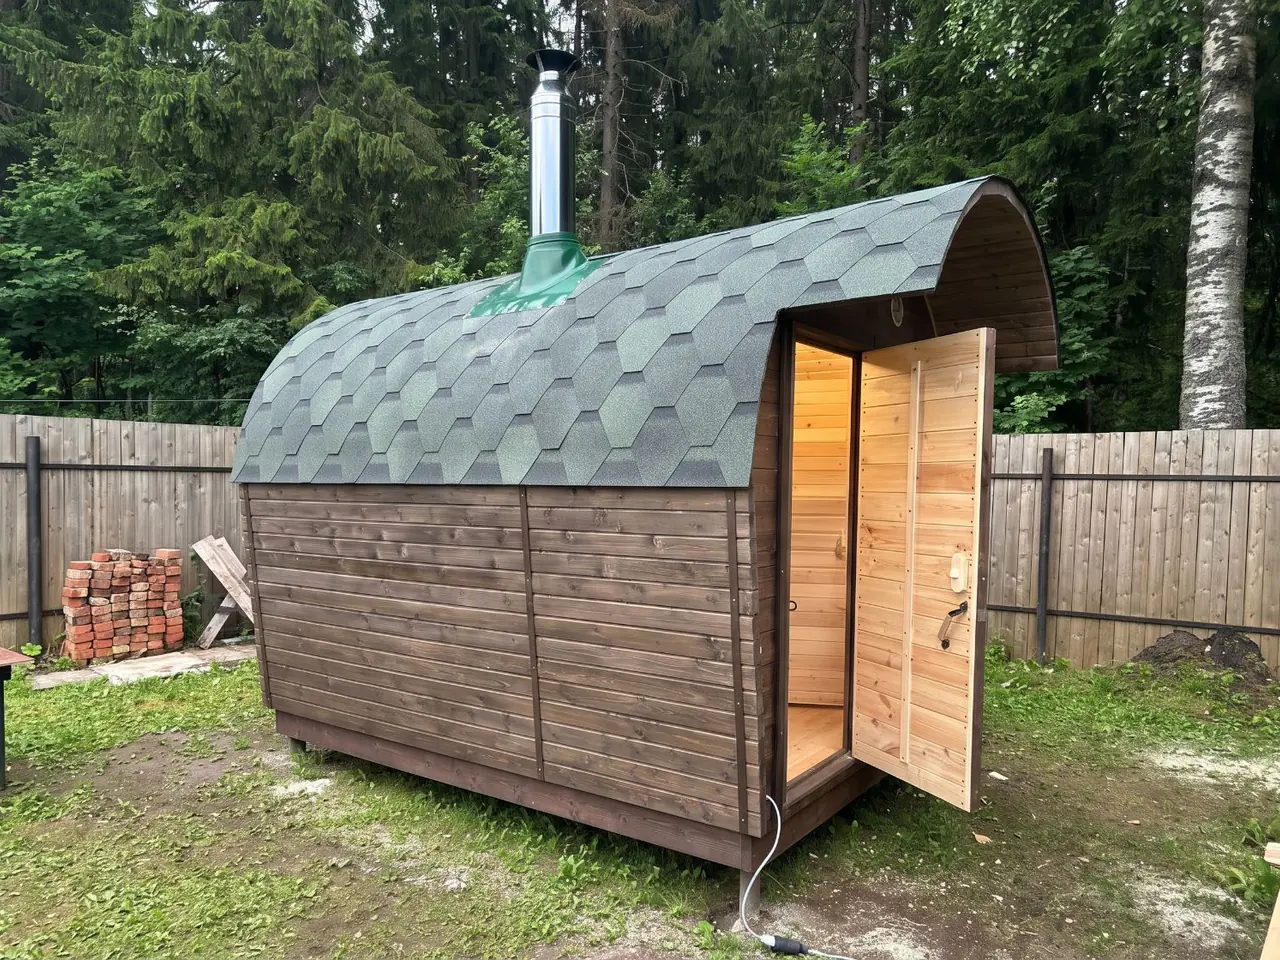
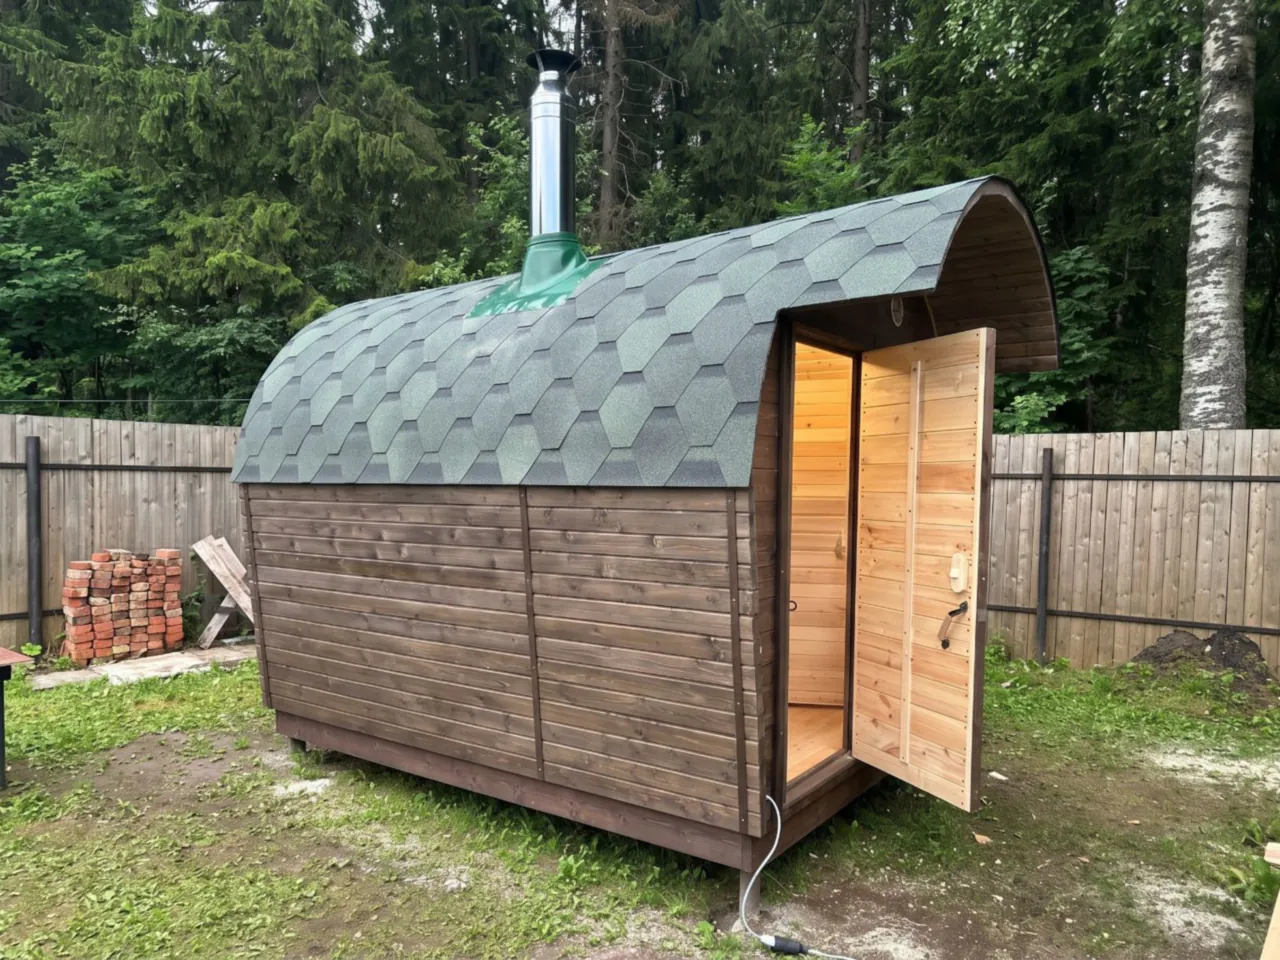
Наши работы: фото объекта 6, пережатие тяжёлых кадров, правки увеличения
Доставка и установка: два кадра в WebP 4:3, 1280 и 640, без метаданных.
Главные фото Зонихи и Дороничей и второй кадр установки не влезали в
200 КБ даже на качестве 75 (трава и листва): лёгкое шумоподавление
blur(0.6) перед сжатием дало 195 / 172 / 170 КБ на качестве 80 / 75 / 80,
на глаз разницы нет.

Увеличение: затемнение фона, кнопки и стрелки через rgba — токены цвета
объявлены без альфа-канала, и модификаторы bg-ink/90 в Tailwind не
применялись. Кнопка «Рассчитать такую» при переносе выравнивается влево.

CLAUDE.md: блок в порядке экранов, раздел «Наши работы», цели, структура,
очередь задач.

Claude-Session: https://claude.ai/code/session_016yEhk2s1iwsNRGU5R1PNhg

diff --git a/src/components/works/Lightbox.jsx b/src/components/works/Lightbox.jsx
@@ -60,7 +60,7 @@ export default function Lightbox({ work, onClose }) {
   }
 
   const photo = photos[index]
-  const arrow = 'absolute top-1/2 flex h-12 w-12 -translate-y-1/2 items-center justify-center rounded-full bg-ink/70 text-surface'
+  const arrow = 'absolute top-1/2 flex h-12 w-12 -translate-y-1/2 items-center justify-center rounded-full bg-[rgba(26,21,18,0.7)] text-surface'
 
   return (
     <div
@@ -68,14 +68,14 @@ export default function Lightbox({ work, onClose }) {
       aria-modal="true"
       aria-label={`Фото: ${work.caption}`}
       onClick={onClose}
-      className="fixed inset-0 z-50 flex items-center justify-center bg-ink/90 p-4 md:p-10"
+      className="fixed inset-0 z-50 flex items-center justify-center bg-[rgba(26,21,18,0.92)] p-4 md:p-10"
     >
       <button
         ref={closeRef}
         type="button"
         onClick={onClose}
         aria-label="Закрыть"
-        className="absolute right-3 top-3 z-10 flex h-12 w-12 items-center justify-center rounded-full bg-ink/70 text-[28px] leading-none text-surface md:right-6 md:top-6"
+        className="absolute right-3 top-3 z-10 flex h-12 w-12 items-center justify-center rounded-full bg-[rgba(26,21,18,0.7)] text-[28px] leading-none text-surface md:right-6 md:top-6"
       >
         ×
       </button>

diff --git a/src/components/works/WorkCard.jsx b/src/components/works/WorkCard.jsx
@@ -22,7 +22,7 @@ export default function WorkCard({ work, onOpen, onCalc }) {
         <button
           type="button"
           onClick={() => onCalc(work)}
-          className="mt-2 inline-block p-0 text-body font-bold text-accent underline-offset-4 hover:underline"
+          className="mt-2 inline-block p-0 text-left text-body font-bold text-accent underline-offset-4 hover:underline"
         >
           Рассчитать такую
         </button>

diff --git a/CLAUDE.md b/CLAUDE.md
@@ -66,12 +66,14 @@ src/
   data/reviews.js             — отзывы: площадки, семь карточек, отзыв для бизнеса
   data/faq.js                 — частые вопросы: 18 вопросов, plainAnswer() для JSON-LD
   data/objects.js             — где стоят бани: только названия мест и координаты
+  data/works.js               — «Наши работы»: шесть объектов, подписи, фото, сезон и карточка для калькулятора
   data/visit.js               — «Посмотрите баню до покупки»: тексты карточек, ленты, типы записи
   lib/
     submitLead.js             — единственная точка отправки заявок
     track.js                  — цели Яндекс.Метрики, клики по телефону
     utm.js                    — UTM в sessionStorage
     visit.js                  — событие «записаться на показ» (ссылка из FAQ → форма блока показа)
+    calc.js                   — событие «рассчитать такую» («Наши работы» → калькулятор)
     callback.js               — обещание ответить/перезвонить по московскому времени
     phone.js                  — маска и нормализация телефона
     ymaps.js                  — загрузка JavaScript API Яндекс Карт v3 по требованию
@@ -84,14 +86,16 @@ src/
     SectionCalculator.jsx     — калькулятор
     calculator/               — Segmented, FloorPlan, CalculatorCard, LeadForm
     SectionInside.jsx         — «Что внутри»
-    SectionMap.jsx            — «Где стоят наши бани»: карта Яндекса, список мест
+    ResponsivePhoto.jsx       — фото в двух ширинах (srcset 1280/640), photoSrc()
+    SectionWorks.jsx          — «Наши работы» (#works): карточки объектов + карта
+    works/                    — WorkCard (карточка), Lightbox (увеличение), MapBlock (карта Яндекса, список мест)
     SectionProcess.jsx        — «Как проходит заказ»: пять шагов, «Делаем мы / Делаете вы»
     SectionReviews.jsx        — «Отзывы»: каскад в две колонки, «Показать ещё» на телефоне
     ReviewCard.jsx            — карточка отзыва (блок «Отзывы» и вкладка «Для бизнеса»)
     SourceIcon.jsx            — иконка площадки: круглая для карточек, квадратная для плашек
     RatingStars.jsx           — звёзды рейтинга инлайн-SVG, заполнение из числа
     SectionShowroom.jsx       — «Посмотрите баню до покупки» (#showroom): три карточки и форма записи
-    showroom/                 — VisitPhoto (srcset 1280/640), VisitCard (карточка с лентой), VisitForm
+    showroom/                 — VisitCard (карточка с лентой), VisitForm (форма записи)
     SectionFaq.jsx            — «Частые вопросы»: аккордеон на <details>, JSON-LD FAQPage
     FaqQuestionForm.jsx       — карточка «Не нашли ответ?» с формой вопроса на фоне forest
     Footer.jsx                — подвал: оператор, контакты, политика (минимальный)
@@ -100,7 +104,8 @@ src/
   pages/PrivacyPage.jsx       — политика конфиденциальности
 public/photos/                — WebP-фото, логотип, чертежи diagram-*.webp,
                                 иконки площадок review-*.webp, rating-*.webp,
-                                фото блока показа shourum-*, proizvodstvo-*, video-zvonok (1280 и 640)
+                                фото блока показа shourum-*, proizvodstvo-*, video-zvonok (1280 и 640),
+                                фото объектов obekt-* (1280 и 640)
 public/favicon-32.png, apple-touch-icon.png
 ```
 
@@ -217,13 +222,23 @@ public/favicon-32.png, apple-touch-icon.png
 5. `SectionInside` — **готов**. Светлый экран: пять блоков (вентиляция,
    утепление, печь, дерево, кровля), приглашение в шоурум с кнопкой на
    `#showroom`.
-6. `SectionMap` (`#map`) — **в работе**. Светлый экран «Где стоят наши бани»:
-   заголовок и подзаголовок по центру, карта Яндекса (JavaScript API v3)
-   480/360 px со скруглением 6 px, строка «А ещё: …» с переездами к другим
-   регионам и кнопка «Вся Кировская область», ниже все места текстом в 3/2
-   колонки. Код готов, но: ключ не добавлен, координаты предварительные
-   (скрипт геокодера не запускался), живой вид карты не проверялся. Над картой
-   слот `WORKS_SLOT` под карточки «Наши работы» — **заглушка**.
+6. `SectionWorks` (`#works`) — **готов** (карта внутри — **в работе**, см.
+   ниже). Светлый экран «Наши работы», подзаголовок «Подковы, которые уже
+   стоят у наших клиентов», по центру. Шесть карточек объектов
+   (`works/WorkCard`, данные `data/works.js`): фото 4:3 со скруглением,
+   подпись буквально из задания (`text-body`, `ink`), текстовая кнопка
+   «Рассчитать такую» `accent` (у «Доставки и установки» нет). От 1024 px три
+   в ряд, ниже две. Клик по фото — увеличение `works/Lightbox`: два кадра,
+   стрелки и клавиши, закрытие по Esc / кнопке / клику вне, свайп на телефоне,
+   без таймеров. Кнопка — `requestCalc(season, cardId)` из `lib/calc.js`:
+   калькулятор переключается на «Себе», ставит сезон и карточку теми же
+   обработчиками, что при ручном выборе, дальше стандартная прокрутка к форме.
+   Под карточками `works/MapBlock` (бывший `SectionMap`, `#map`): маленький
+   заголовок «Где стоят наши бани», прежний подзаголовок, карта Яндекса
+   (JavaScript API v3) 480/360 px со скруглением 6 px, строка «А ещё: …»
+   с переездами к другим регионам и кнопка «Вся Кировская область», ниже все
+   места текстом в 3/2 колонки. Карта: координаты предварительные (скрипт
+   геокодера не запускался), живой вид не проверялся.
 7. `SectionProcess` (`#process`) — **готов**. Пять нумерованных шагов
    (заявка, просмотр и договор, изготовление, доставка, гарантия) с колонками
    «Делаем мы / Делаете вы». Главная колонка — «Делаете вы» на подложке
@@ -258,7 +273,7 @@ public/favicon-32.png, apple-touch-icon.png
 11. `Footer` — **заглушка** (минимальный): оператор, телефон, почта, ссылка
     на `/privacy/`. Полный подвал — в очереди.
 
-Ещё нет: «Наши работы» (слот над картой), финальная форма, полный подвал.
+Ещё нет: финальная форма, полный подвал.
 
 ## Решения по тексту
 
@@ -332,6 +347,8 @@ public/favicon-32.png, apple-touch-icon.png
 | `faq_question_submit` | успешная отправка формы вопроса в FAQ |
 | `visit_button` | кнопка в карточке блока показа (`type`: `showroom` / `production` / `video`) или ссылка из FAQ № 17 (`type`: `faq`) |
 | `visit_submit` | успешная отправка формы записи на показ (`type`) |
+| `works_photo_open` | открыли увеличение фото объекта (`name` — название объекта) |
+| `works_calc_click` | «Рассчитать такую» в карточке объекта (`name`); дальше уходят обычные `calc_season_change` и `calc_card_select`, если сезон или карточка сменились |
 | `map_view` | карта загрузилась и показана |
 | `map_point_click` | клик по точке на карте (`name`) |
 | `map_far_click` | клик по месту в строке «А ещё» (`name`) |
@@ -375,6 +392,22 @@ public/favicon-32.png, apple-touch-icon.png
   (в карточках показ 40 → файл 80), квадратные `rating-*-128.webp` (показ 64).
   Тень `drop-shadow(0 2px 8px rgba(26,21,18,0.18))`.
 
+## Наши работы
+
+- Данные только в `src/data/works.js`: `id`, `name` (для целей), `caption`
+  (буквально из задания, без цен и сроков), `photos` (два кадра: `name`,
+  `alt`), `calc` (`season` + `cardId` из `data/calculator.js`, `null` — без
+  кнопки). Зониха → `warm-3`, Дороничи и Слободской → `year-45`,
+  Кирово-Чепецк и Бабичи → `year-6`.
+- Фото `obekt-N-<место>-glavnoe` и `-2`: 4:3, `-1280.webp` до 200 КБ и
+  `-640.webp` до 80 КБ, качество 80, при перевесе до 75; если и на 75 не
+  влезает — лёгкое шумоподавление перед сжатием (`blur(0.6)` в sharp, помогло
+  трём летним кадрам с травой), ниже 70 не опускать. Без EXIF: это участки
+  клиентов, координаты в файлах недопустимы.
+- Увеличение (`works/Lightbox`): `role="dialog"`, фокус на «×» и обратно на
+  фото, прокрутка страницы под ним выключена, второй кадр подгружается
+  заранее через `new Image()`.
+
 ## Карта «Где стоят наши бани»
 
 - Данные только в `src/data/objects.js`: `name`, `region`, `lat`, `lon`,
@@ -388,6 +421,7 @@ public/favicon-32.png, apple-touch-icon.png
   с Referer сайта. Страница геокодер не вызывает.
 - Ключ — только из `VITE_YMAPS_KEY` при сборке. Ограничение ключа в кабинете
   разработчика: HTTP Referer `volkov43-beep.github.io` и `banivyatki.ru`.
+- Карта живёт в `components/works/MapBlock.jsx` внутри блока «Наши работы».
 - API грузится через `lib/ymaps.js`, когда блок подходит к экрану
   (IntersectionObserver, запас 300 px), один раз за визит (тариф бесплатный,
   100 загрузок в сутки); до загрузки плашка `surface-2` того же размера.
@@ -432,7 +466,7 @@ public/favicon-32.png, apple-touch-icon.png
   Лимиты веса из заданий: одиночное фото до 150–180 КБ, парное до 90 КБ.
 - Блок показа (`shourum-*`, `proizvodstvo-*`, `video-zvonok`): 4:3, две ширины
   `-1280.webp` (до 200 КБ) и `-640.webp` (до 80 КБ) через `srcset`/`sizes`
-  (`showroom/VisitPhoto`); качество 80, при перевесе до 75, не ниже; без
+  (`ResponsivePhoto`); качество 80, при перевесе до 75, не ниже; без
   EXIF. `proizvodstvo-3-dugi-1280` на 75 весит 218 КБ — принято.
 - Чертежи: WebP с прозрачностью, качество 85, ширина 1440–1600 px, каждый
   меньше 200–250 КБ, без скругления углов; обрезка пустых полей с запасом 3 %,
@@ -491,16 +525,14 @@ public/favicon-32.png, apple-touch-icon.png
 
 ## Что дальше (очередь задач)
 
-1. **Карта «Где стоят наши бани»** — код влит (PR #18), ключ в секретах
+1. **Карта «Где стоят наши бани»** (теперь внутри «Наших работ») — код влит (PR #18), ключ в секретах
    и ограничен по Referer. Осталось: посмотреть карту вживую (если её нет —
    читать сообщение «Карта: …» в консоли), запустить `scripts/geocode.mjs`,
    проверить спорные точки, стиль, жесты, копирайт.
-2. **Блок «Наши работы»** — карточки объектов над картой (слот `WORKS_SLOT`).
-   Ждём фото.
-3. **Финальная форма** на `forest` и **полный подвал** на `forest`.
-4. **Чертёж проливного пола** `diagram-pol.png` вместо `DrainFloorDiagram`
+2. **Финальная форма** на `forest` и **полный подвал** на `forest`.
+3. **Чертёж проливного пола** `diagram-pol.png` вместо `DrainFloorDiagram`
    в карточке «Двойной проливной пол». Ждём ответа про слив.
-5. **Интеграция с Битрикс24** через PHP-обработчик `lead.php` на Beget:
+4. **Интеграция с Битрикс24** через PHP-обработчик `lead.php` на Beget:
    принимает `POST` с payload от `submitLead`, проверяет ловушку и обязательные
    поля, создаёт лид через входящий вебхук (`crm.lead.add`). Адрес вебхука —
    только на сервере; `submitLead` меняется на `fetch(HANDLER_URL, …)`.
